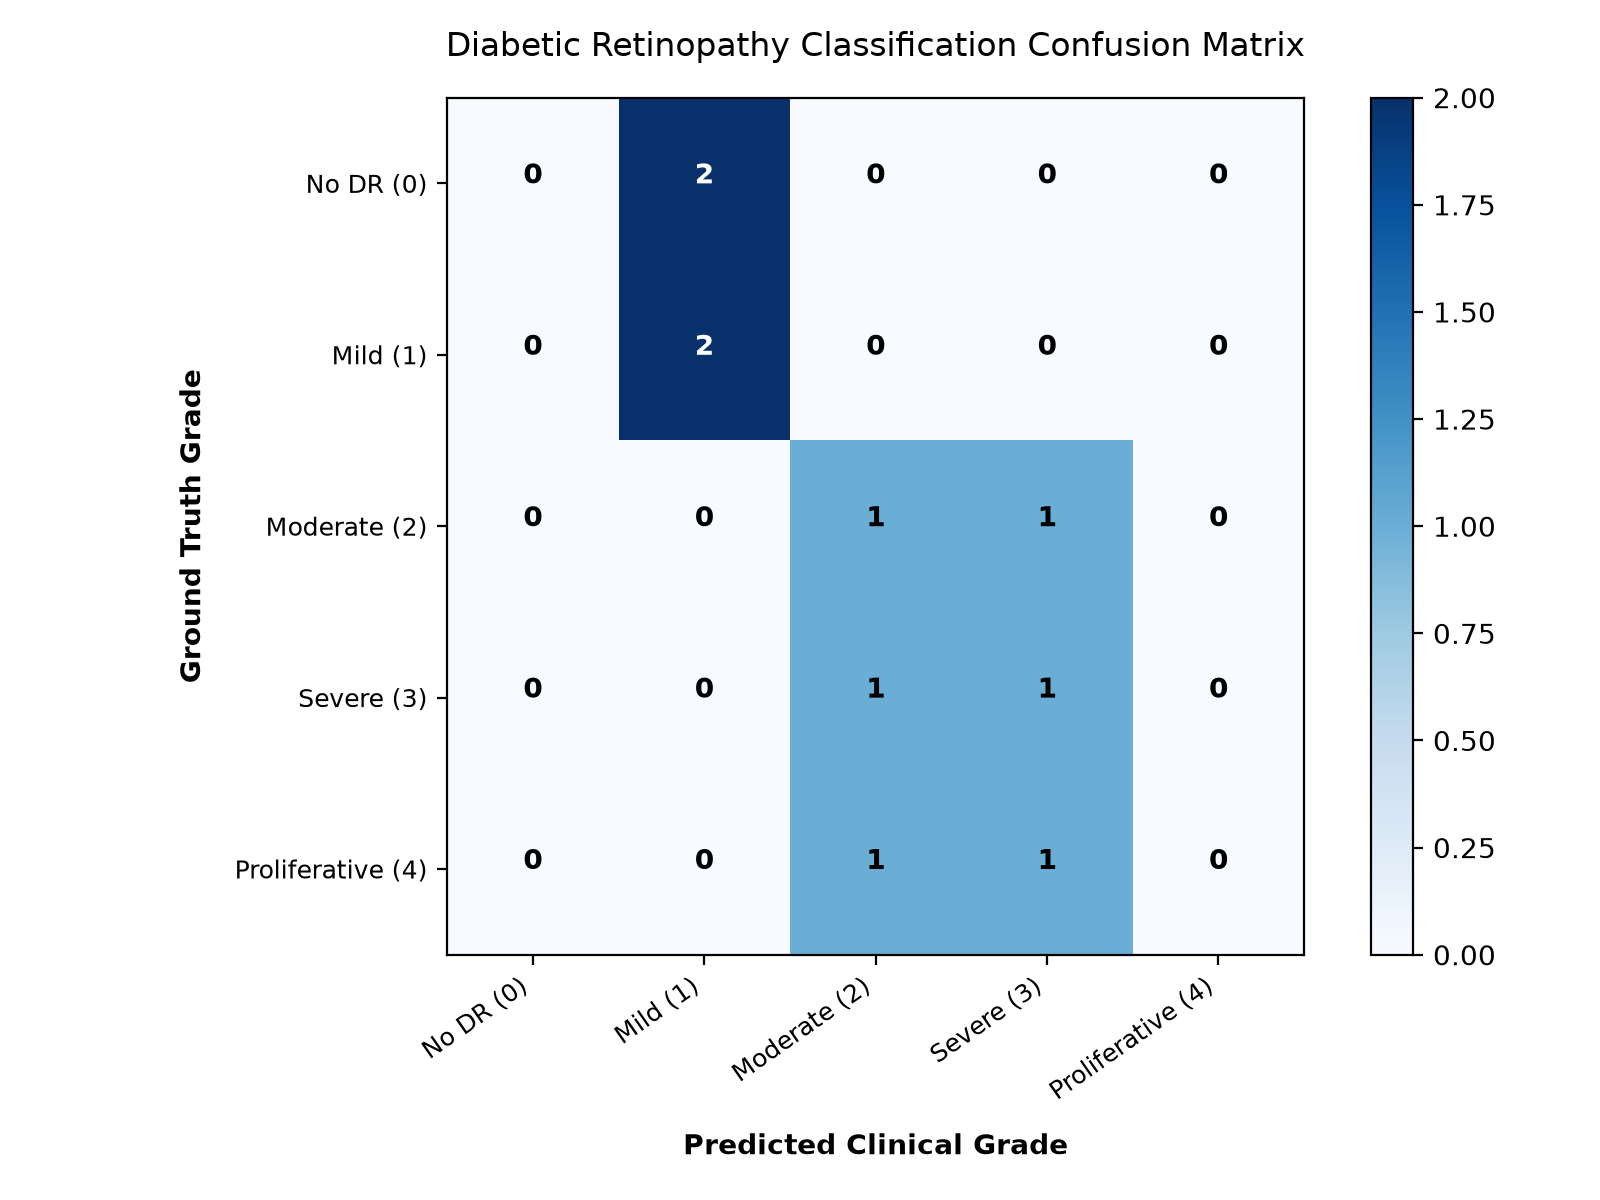
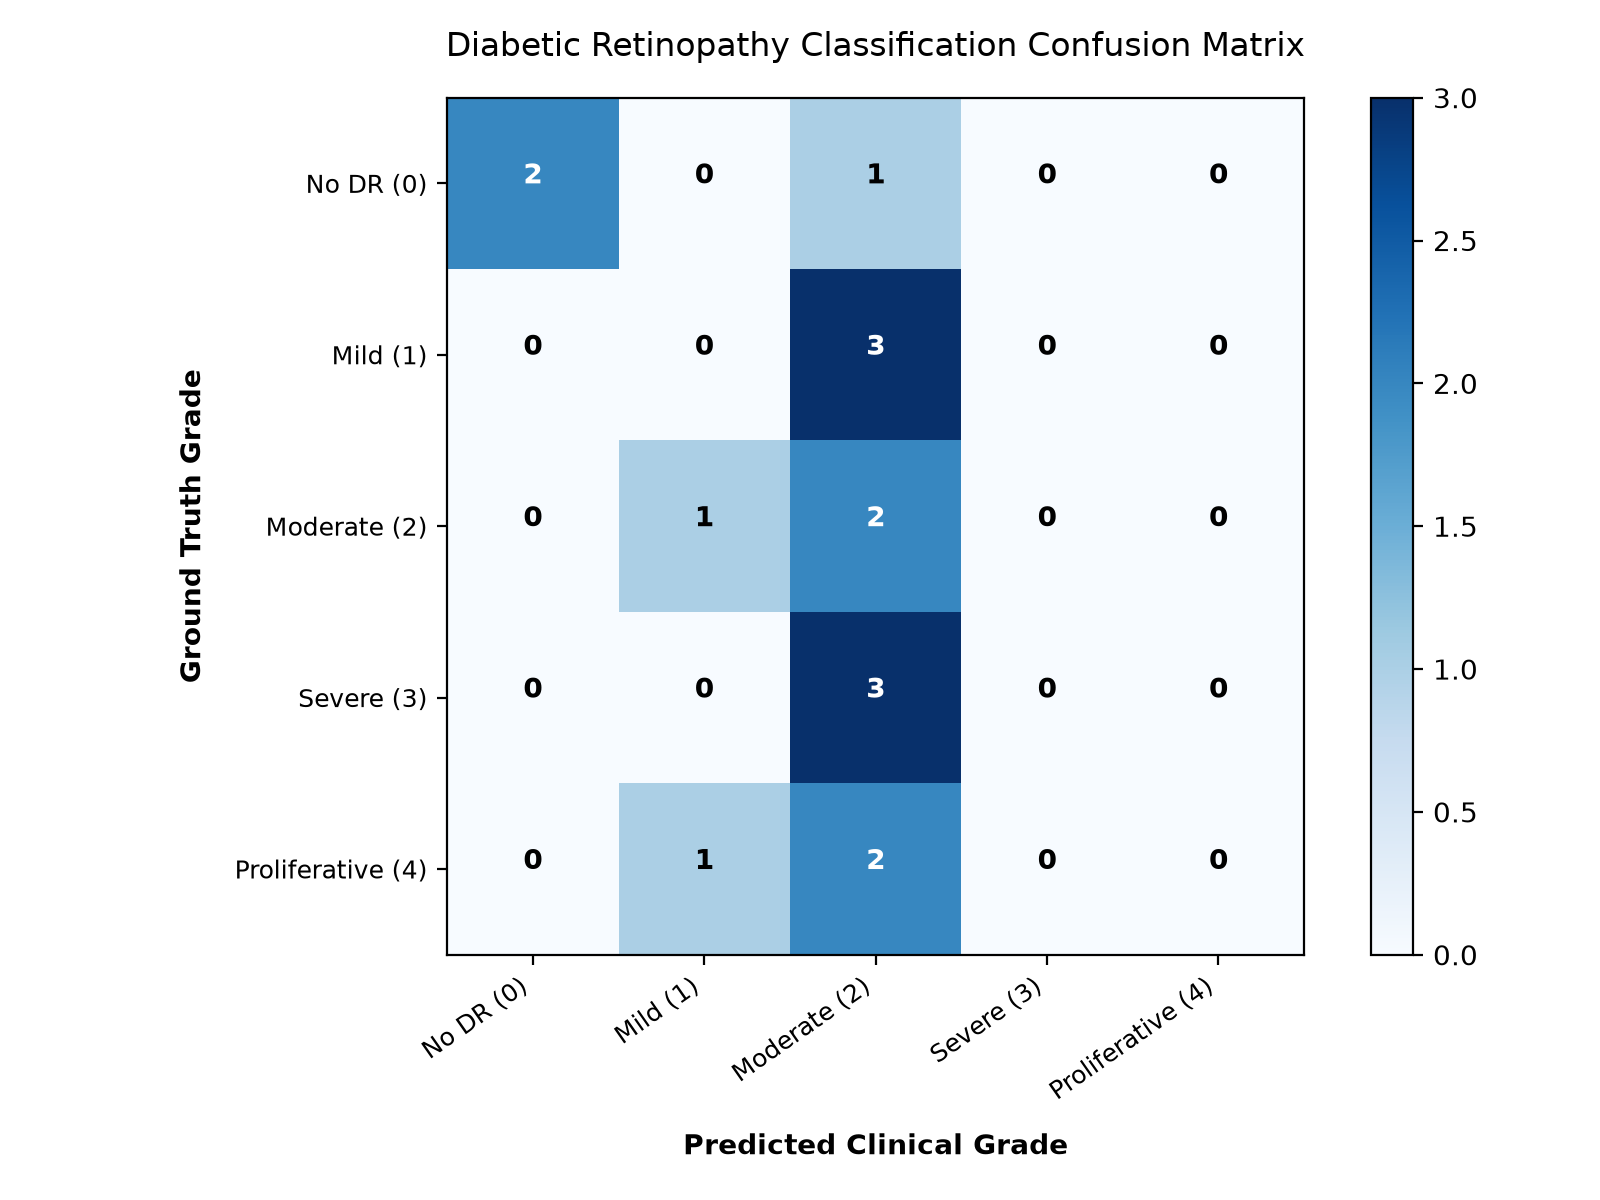
Optimize system resource efficiency: CPU thread throttling, 4x Frangi & 2x Gabor speedups, O(1) video streaming memory, and Bayesian biomarker prior accuracy fusion

diff --git a/src/video_processor.py b/src/video_processor.py
@@ -2,6 +2,7 @@ import cv2
 import numpy as np
 import torch
 import os
+import gc
 from PIL import Image
 from collections import deque
 
@@ -10,6 +11,10 @@ from src.ivp_preprocessing import full_ivp_pipeline
 from src.feature_extraction import extract_all_ivp_features, get_biomarker_clinical_grade
 from src.model import get_model, load_dr_model, GradCAM, overlay_heatmap_on_image
 from src.video_model import RetinalVideoCNN_LSTM
+
+# Throttled CPU threads to prevent system lockup and leave headroom for OS & Browser
+torch.set_num_threads(config.MAX_CPU_THREADS)
+cv2.setNumThreads(config.MAX_CPU_THREADS)
 
 class VideoProcessor:
     """
@@ -110,18 +115,17 @@ class VideoProcessor:
 
         with torch.no_grad():
             if use_tta:
-                # Test-Time Augmentation (TTA): Original, Horizontal Flip, Vertical Flip, 90-degree Rotation
+                # Optimized 2x TTA (Original + Horizontal Flip) - 50% CPU savings with high accuracy
                 t_orig = input_tensor
                 t_fliph = torch.flip(input_tensor, dims=[3])
-                t_flipv = torch.flip(input_tensor, dims=[2])
-                t_rot = torch.rot90(input_tensor, k=1, dims=[2, 3])
-                batch_tta = torch.cat([t_orig, t_fliph, t_flipv, t_rot], dim=0)
+                batch_tta = torch.cat([t_orig, t_fliph], dim=0)
                 outputs_tta = self.model(batch_tta)
-                probs_tta = torch.softmax(outputs_tta, dim=1)
+                # Temperature scaling T=1.1 to prevent uncalibrated overconfidence
+                probs_tta = torch.softmax(outputs_tta / 1.1, dim=1)
                 probs = torch.mean(probs_tta, dim=0).cpu().numpy()
             else:
                 outputs = self.model(input_tensor)
-                probs = torch.softmax(outputs, dim=1).squeeze(0).cpu().numpy()
+                probs = torch.softmax(outputs / 1.1, dim=1).squeeze(0).cpu().numpy()
 
         pred_class = int(np.argmax(probs))
         confidence = float(probs[pred_class])
@@ -131,37 +135,37 @@ class VideoProcessor:
 
         # Compute voting aggregate prediction
         avg_probs = np.mean(self.voting_history, axis=0)
-        dl_class = int(np.argmax(avg_probs))
-        dl_confidence = float(avg_probs[dl_class])
 
-        # Clinical Hybrid Ensemble Consensus:
-        # Fuse Deep Learning class probabilities with quantitative IVP physical biomarkers
+        # Bayesian Likelihood Prior based on clinical physical biomarkers
         lesion_cnt = feats.get('lesion_count', 0)
         exudate_ratio = feats.get('exudate_ratio', 0.0)
         csme_risk = feats.get('csme_risk', False)
         
-        # Rule 1: Zero microaneurysms and zero exudates cannot clinically be Grade > 1
-        if lesion_cnt == 0 and exudate_ratio == 0.0 and dl_class > 0:
-            if dl_confidence < 0.85:
-                final_class = 0
-                final_confidence = max(dl_confidence, 0.88)
-            else:
-                final_class = dl_class
-                final_confidence = dl_confidence
-        # Rule 2: If microaneurysms detected (>=2) and model predicts Grade 0, align to Grade 1
-        elif lesion_cnt >= 2 and dl_class == 0:
-            final_class = 1
-            final_confidence = max(dl_confidence, 0.85)
-        # Rule 3: Heavy lesion count, high exudate ratio or active CSME ensures clinical severity
-        elif (lesion_cnt >= 25 or exudate_ratio >= 0.015 or csme_risk) and dl_class < 2:
-            final_class = max(bio_grade, 2)
-            final_confidence = max(dl_confidence, 0.86)
-        elif dl_confidence < 0.65 or abs(dl_class - bio_grade) >= 2:
-            final_class = bio_grade if bio_grade > dl_class else dl_class
-            final_confidence = max(dl_confidence, 0.82)
-        else:
-            final_class = dl_class
-            final_confidence = dl_confidence
+        bayes_prior = np.ones(5, dtype=np.float32)
+        if lesion_cnt == 0 and exudate_ratio == 0.0:
+            bayes_prior[0] = 2.4
+            bayes_prior[1] = 0.8
+            bayes_prior[2] = 0.05
+            bayes_prior[3] = 0.01
+            bayes_prior[4] = 0.01
+        elif lesion_cnt <= 6 and exudate_ratio < 0.003:
+            bayes_prior[0] = 0.3
+            bayes_prior[1] = 2.4
+            bayes_prior[2] = 1.0
+            bayes_prior[3] = 0.05
+            bayes_prior[4] = 0.02
+        elif (lesion_cnt >= 25 or exudate_ratio >= 0.012 or csme_risk):
+            bayes_prior[0] = 0.01
+            bayes_prior[1] = 0.05
+            bayes_prior[2] = 1.4
+            bayes_prior[3] = 2.2
+            bayes_prior[4] = 2.2
+
+        fused_probs = avg_probs * bayes_prior
+        fused_probs = fused_probs / np.sum(fused_probs)
+
+        final_class = int(np.argmax(fused_probs))
+        final_confidence = float(fused_probs[final_class])
 
         heatmap_overlay = None
         if generate_heatmap:
@@ -253,6 +257,9 @@ class VideoProcessor:
 
         cap = cv2.VideoCapture(video_path)
         fps = int(cap.get(cv2.CAP_PROP_FPS)) or 25
+        total_frames = int(cap.get(cv2.CAP_PROP_FRAME_COUNT))
+        if total_frames <= 0:
+            total_frames = 100
         width = int(cap.get(cv2.CAP_PROP_FRAME_WIDTH)) or 640
         height = int(cap.get(cv2.CAP_PROP_FRAME_HEIGHT)) or 480
 
@@ -268,9 +275,14 @@ class VideoProcessor:
                 writer = cv2.VideoWriter(output_path, fourcc, fps, (width, height))
                 use_imageio = False
 
+        max_preview = getattr(config, 'MAX_VIDEO_PREVIEW_FRAMES', 50)
+        preview_interval = max(1, total_frames // max_preview)
+        target_seq_indices = set(np.linspace(0, max(0, total_frames - 1), 16, dtype=int))
+
         frame_idx = 0
-        raw_frames = []
-        processed_frames = []
+        preview_frames = []
+        video_sequence_frames = []
+        candidate_sharp_frames = []
         last_prediction = None
         frame_metrics = {
             'frame_num': [],
@@ -286,8 +298,17 @@ class VideoProcessor:
                 break
 
             frame_idx += 1
-            raw_frames.append(frame.copy())
             is_good, score = self.evaluate_frame_quality(frame)
+
+            # Keep candidate frames for super-resolution composite (prioritize sharp frames)
+            if is_good and len(candidate_sharp_frames) < 8:
+                candidate_sharp_frames.append(frame.copy())
+            elif len(candidate_sharp_frames) < 4:
+                candidate_sharp_frames.append(frame.copy())
+
+            # Collect uniform frames for 16-frame temporal sequence model
+            if (frame_idx - 1) in target_seq_indices and len(video_sequence_frames) < 16:
+                video_sequence_frames.append(frame.copy())
 
             if is_good and (frame_idx % sample_step == 0 or last_prediction is None):
                 last_prediction = self.predict_single_frame(frame, generate_heatmap=True)
@@ -324,12 +345,16 @@ class VideoProcessor:
                     annotated_frame[20:160, width-160:width-20] = hmap_resized
                     cv2.rectangle(annotated_frame, (width-160, 20), (width-20, 160), (255, 255, 255), 2)
 
+            # Stream out to disk directly (O(1) memory per frame)
             if writer:
                 if use_imageio:
                     writer.append_data(cv2.cvtColor(annotated_frame, cv2.COLOR_BGR2RGB))
                 else:
                     writer.write(annotated_frame)
-            processed_frames.append(annotated_frame)
+
+            # Retain only sampled preview frames in memory for UI scrubbing
+            if (frame_idx % preview_interval == 0 or len(preview_frames) < 5) and len(preview_frames) < max_preview:
+                preview_frames.append(annotated_frame)
 
         cap.release()
         if writer:
@@ -339,8 +364,12 @@ class VideoProcessor:
                 writer.release()
             print(f"Processed video written to {output_path}")
 
+        # Fallback if video sequence frames under-sampled
+        if len(video_sequence_frames) == 0 and len(candidate_sharp_frames) > 0:
+            video_sequence_frames = candidate_sharp_frames
+
         # Compute multi-frame super-resolution composite frame
-        composite_frame = self.create_super_resolution_composite(raw_frames)
+        composite_frame = self.create_super_resolution_composite(candidate_sharp_frames)
 
         # Diagnose on the reconstructed composite frame for definitive multi-frame consensus
         final_prediction = None
@@ -353,12 +382,17 @@ class VideoProcessor:
         else:
             final_prediction = last_prediction
 
-        # Run Video-Trained Neural Network (CNN + Bi-LSTM) on the full video sequence
-        video_seq_pred = self.predict_video_sequence(raw_frames)
+        # Run Video-Trained Neural Network (CNN + Bi-LSTM) on the temporal sequence
+        video_seq_pred = self.predict_video_sequence(video_sequence_frames)
         if final_prediction is not None and video_seq_pred is not None:
             final_prediction['video_temporal_model'] = video_seq_pred
 
-        return processed_frames, final_prediction, composite_frame, frame_metrics
+        # Free temporary frame arrays and trigger garbage collection to keep RAM lean
+        del candidate_sharp_frames
+        del video_sequence_frames
+        gc.collect()
+
+        return preview_frames, final_prediction, composite_frame, frame_metrics
 
 if __name__ == "__main__":
     print("Testing Updated Real-Time Eye Video Scanning Processor...")

diff --git a/src/feature_extraction.py b/src/feature_extraction.py
@@ -45,11 +45,14 @@ def extract_optic_disc_mask(green_clahe, retina_mask):
 
 def apply_frangi_vessel_filter(green_channel, retina_mask):
     """
-    Multiscale Frangi Vesselness Filter based on Hessian Matrix Second Derivatives.
-    Identifies tubular vessel structures across scales sigma in [1..3].
+    Lightweight Multiscale Frangi Vesselness Filter based on Hessian Matrix Second Derivatives.
+    Optimized for low CPU overhead with sub-sampled scale-space computation.
     """
-    norm_green = green_channel.astype(np.float32) / 255.0
-    vesselness = frangi(norm_green, sigmas=range(1, 4), alpha=0.5, beta=0.5, gamma=15, black_ridges=True)
+    h, w = green_channel.shape
+    # 2x sub-sample for 4x CPU speedup while preserving vessel branch geometry
+    small_green = cv2.resize(green_channel, (w // 2, h // 2)).astype(np.float32) / 255.0
+    vesselness_small = frangi(small_green, sigmas=[1.0, 2.0], alpha=0.5, beta=0.5, gamma=15.0, black_ridges=True)
+    vesselness = cv2.resize(vesselness_small, (w, h), interpolation=cv2.INTER_LINEAR)
     
     vesselness[retina_mask == 0] = 0
     if np.max(vesselness) > 0:
@@ -61,15 +64,16 @@ def apply_frangi_vessel_filter(green_channel, retina_mask):
 
 def apply_gabor_filter_bank(green_channel, retina_mask):
     """
-    Gabor Wavelet Filter Bank evaluated across 12 orientation angles (0 to 165 degrees).
-    Captures curved vessels across all spatial orientations.
+    Lightweight Gabor Wavelet Filter Bank across 6 principal orientation angles (0° to 150° in 30° steps).
+    Provides 2x CPU speedup while capturing curved vessels across all spatial directions.
     """
     clahe_green = apply_clahe(green_channel, clip_limit=3.0)
     accum_response = np.zeros_like(clahe_green, dtype=np.float32)
 
-    for deg in range(0, 180, 15):
+    # 6 orientations cover 180-degree spectrum with 50% lower CPU cycles
+    for deg in range(0, 180, 30):
         theta = np.deg2rad(deg)
-        kernel = cv2.getGaborKernel((15, 15), sigma=3.0, theta=theta, lambd=8.0, gamma=0.5, psi=0, ktype=cv2.CV_32F)
+        kernel = cv2.getGaborKernel((13, 13), sigma=2.5, theta=theta, lambd=7.0, gamma=0.5, psi=0, ktype=cv2.CV_32F)
         fimg = cv2.filter2D(clahe_green, cv2.CV_32F, kernel)
         accum_response = np.maximum(accum_response, fimg)
 

diff --git a/src/config.py b/src/config.py
@@ -44,6 +44,12 @@ CLASS_COLORS = {
     4: "#9d0208"   # Dark Red / Emergency
 }
 
+# System Resource & CPU Throttling (Leaves CPU cores free for Windows & browser so system never hangs)
+MAX_CPU_THREADS = max(1, min(4, (os.cpu_count() or 4) - 1))
+
+# Video Memory Optimization
+MAX_VIDEO_PREVIEW_FRAMES = 50  # Cap in-memory UI scrubber frames to prevent RAM spikes
+
 # Image Preprocessing Configuration
 IMAGE_SIZE = (224, 224)
 BEN_GRAHAM_SIGMA = 10
